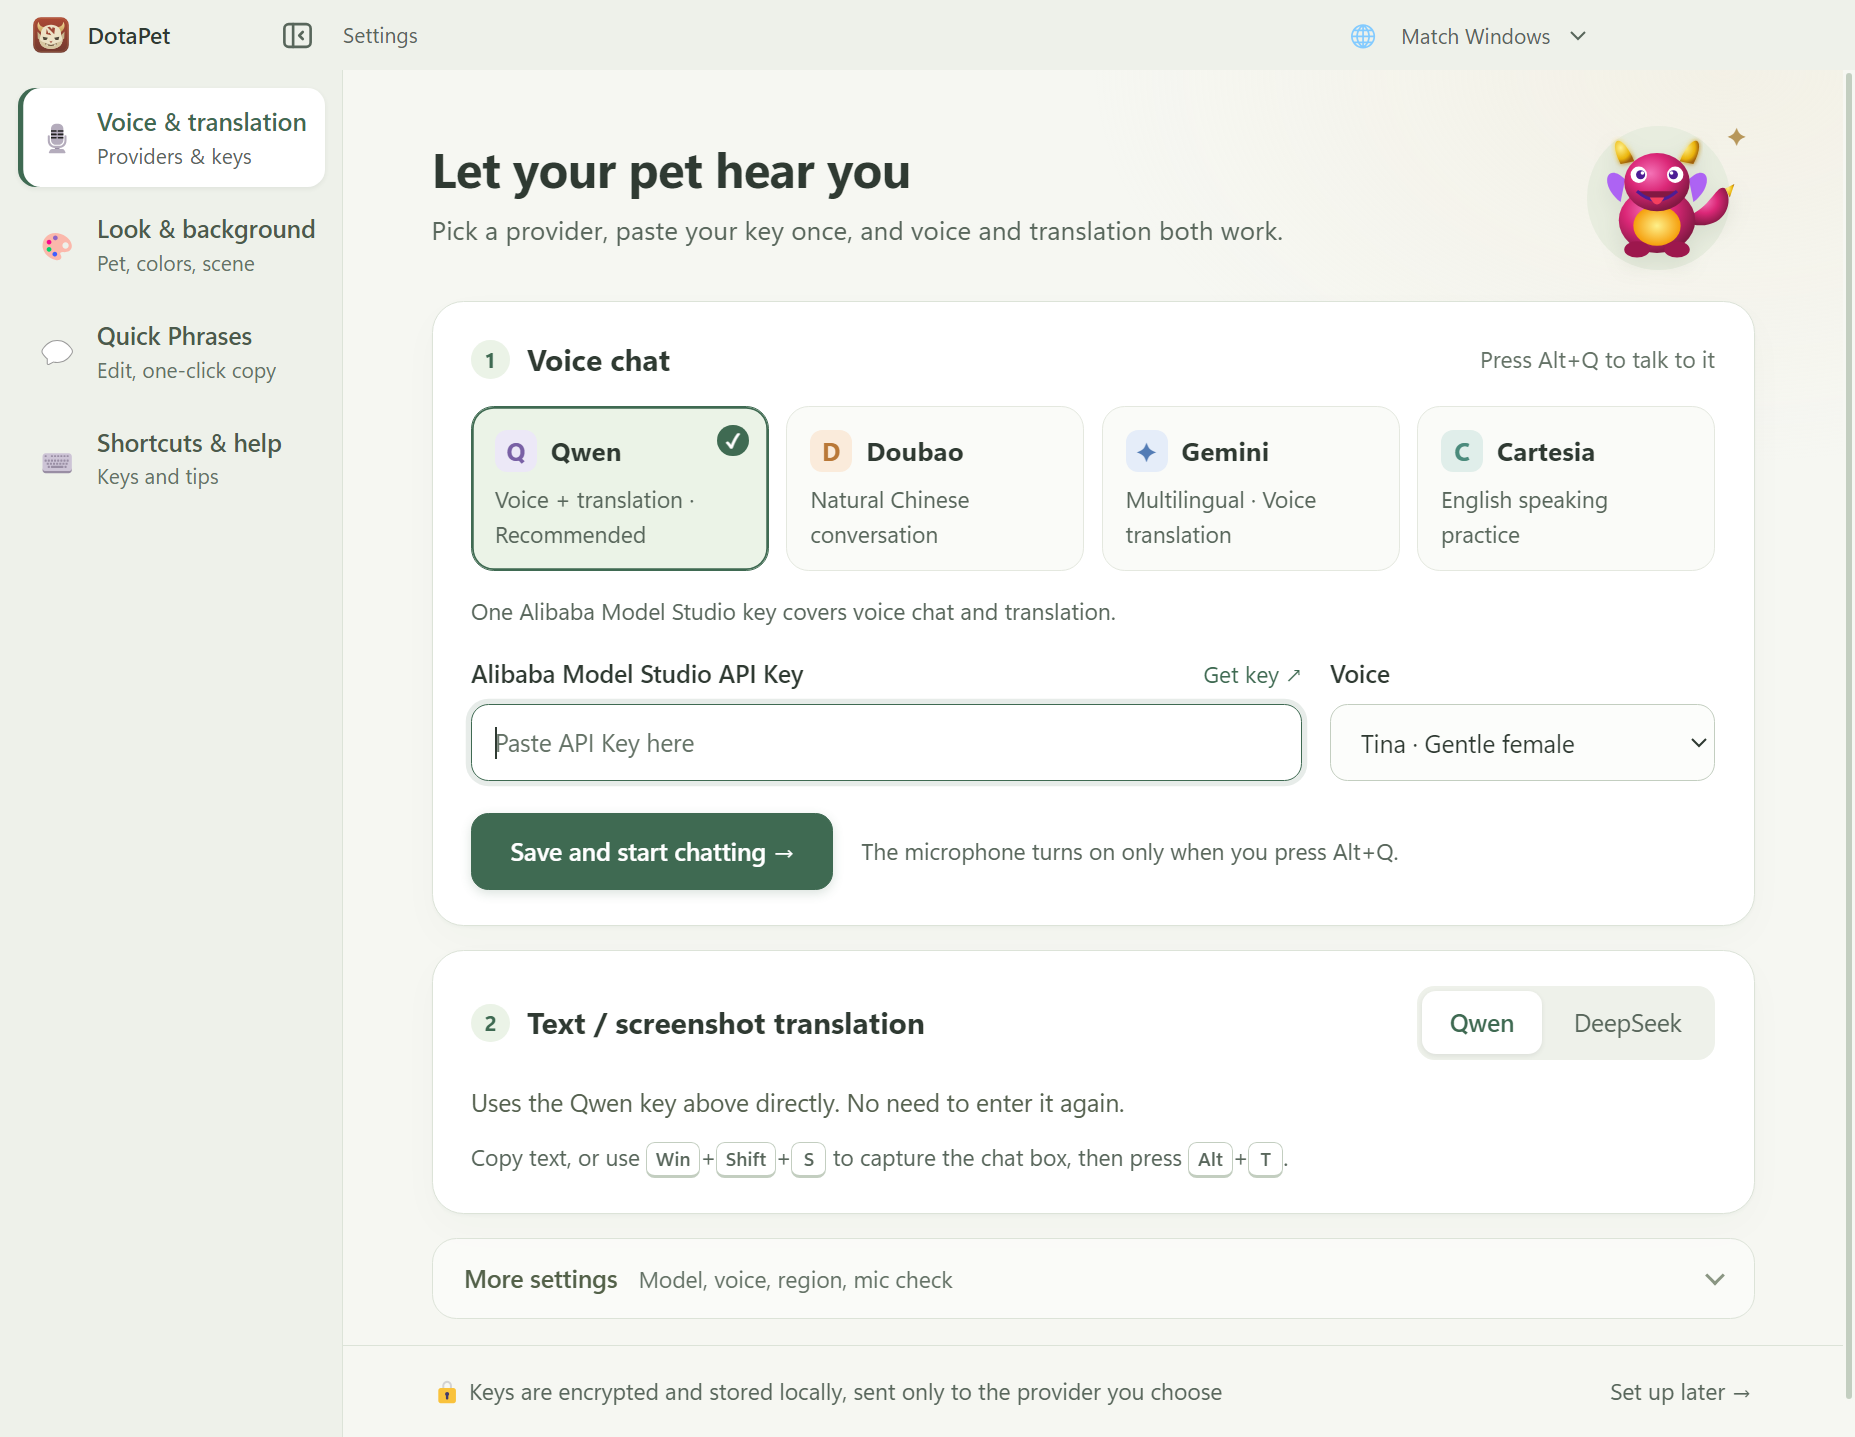
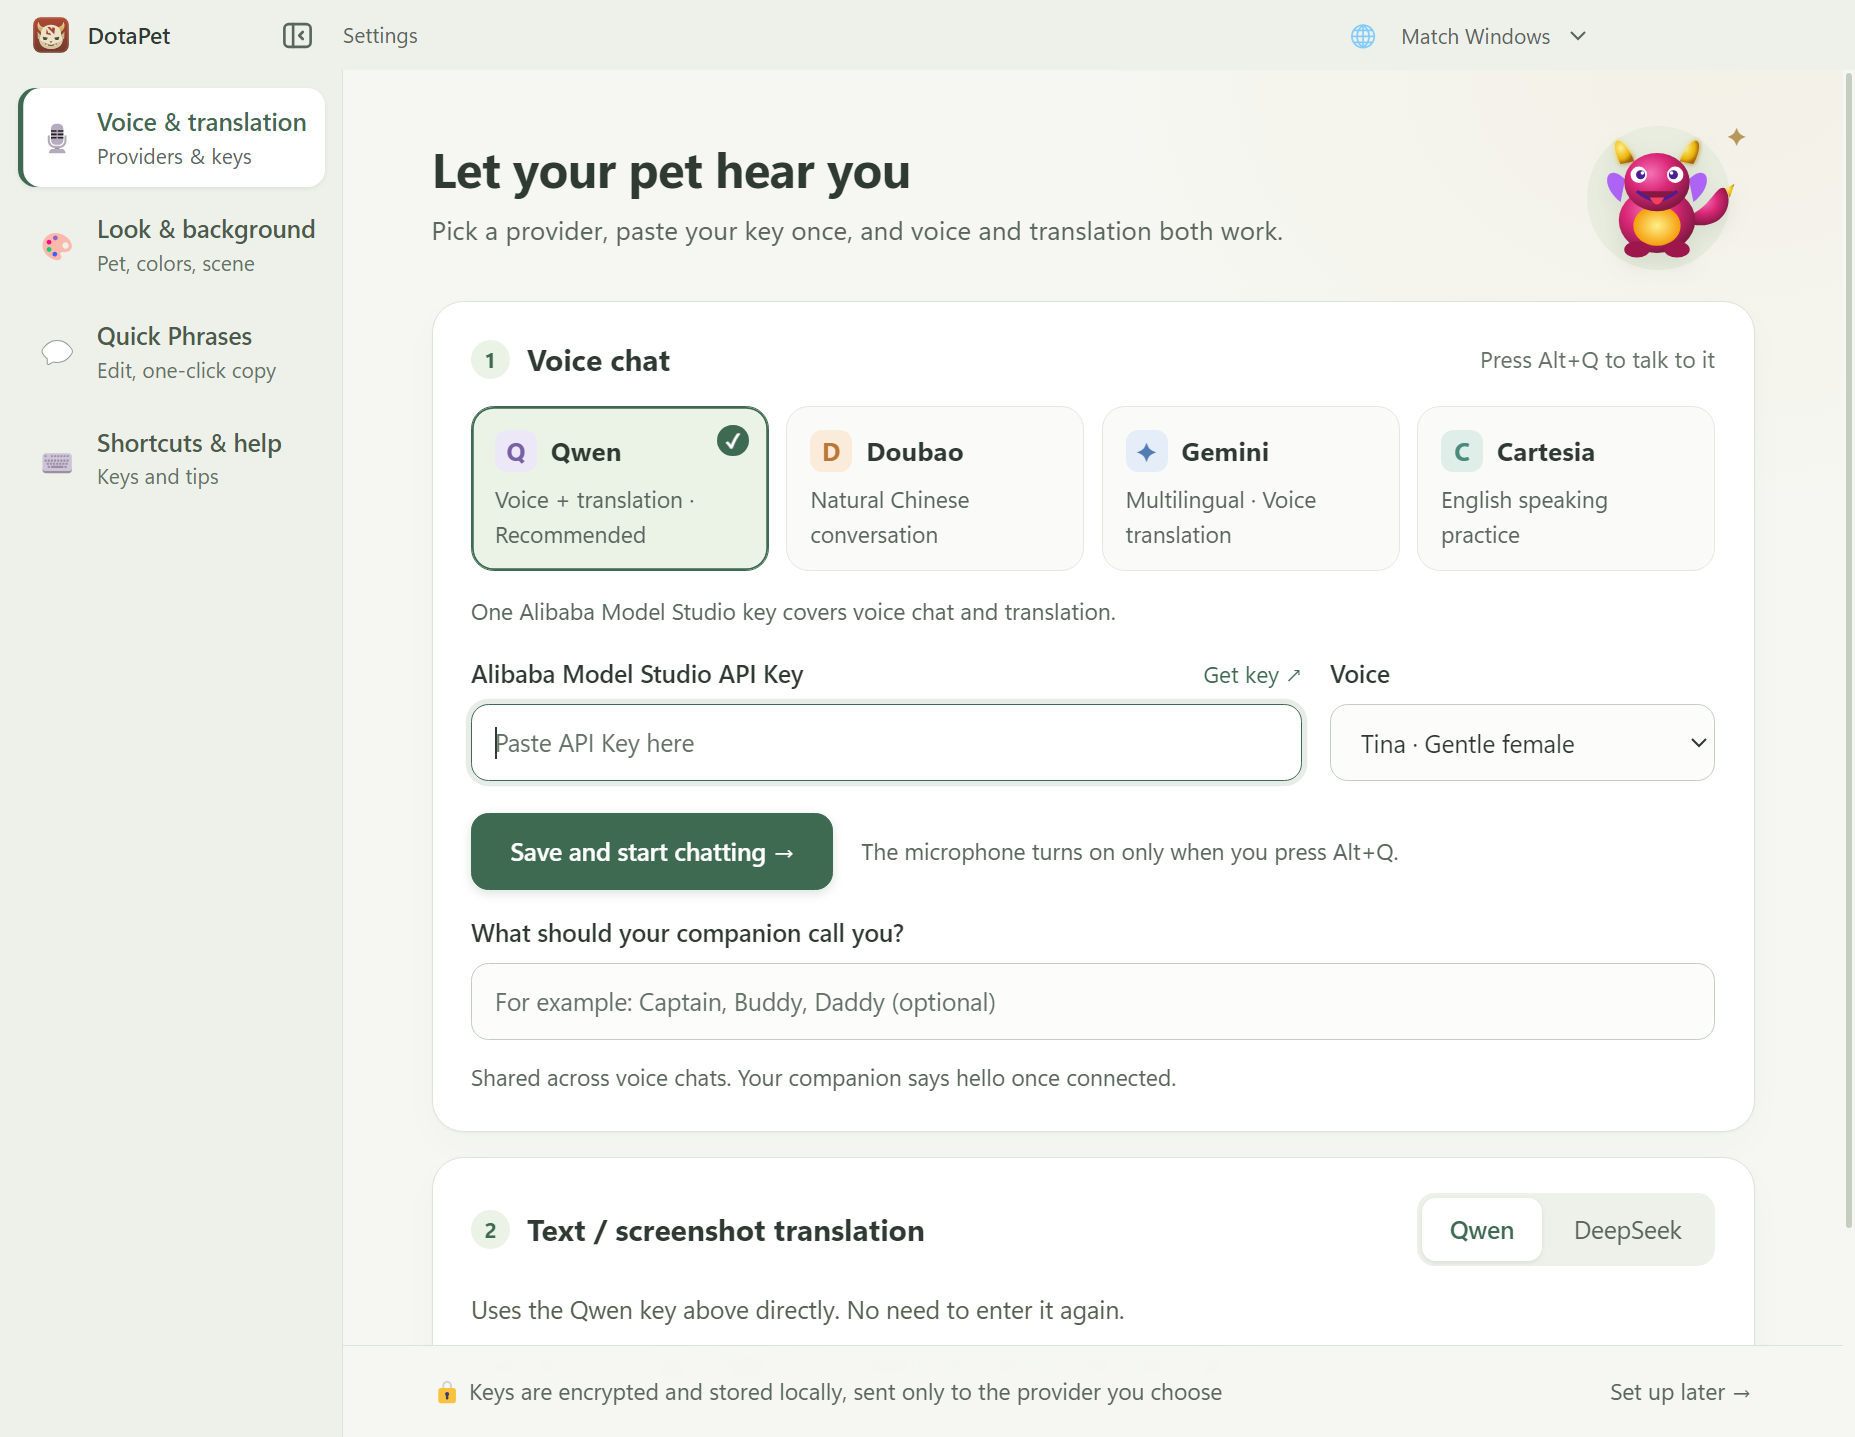
docs: refresh voice settings and chat preference screenshots

diff --git a/src/main/languageSmoke.js b/src/main/languageSmoke.js
@@ -48,6 +48,14 @@ export async function runLanguageSmoke({ controlCenter, openPanel, nativeImage, 
       problems.push(`appearance: the character column overflows (content/room: width ${width}, height ${height})`);
     }
     fs.writeFileSync(path.join(outputDirectory, `language-${page}.png`), (await captureHub(controlCenter, nativeImage)).toPNG());
+    if (documentation && page === 'services') {
+      await contents.executeJavaScript(`(() => {
+        document.getElementById('advanced').open = true;
+        document.querySelector('.conversation-address').scrollIntoView({ block: 'start' });
+      })()`);
+      fs.writeFileSync(path.join(outputDirectory, 'language-chat-preferences.png'), (await captureHub(controlCenter, nativeImage)).toPNG());
+      await contents.executeJavaScript(`document.getElementById('advanced').open = false; window.scrollTo(0, 0);`);
+    }
   }
   await check('sidebar', controlCenter.window.webContents);
   const panel = openPanel();

diff --git a/docs/images/README.md b/docs/images/README.md
@@ -8,11 +8,14 @@ Run this from the repository root on Windows after installing dependencies:
 npm run docs:screenshots
 ```
 
+To refresh only voice settings, chat preferences and translation settings, run `npm run docs:screenshots -- --settings-only`.
+
 The command exercises the existing desktop smoke fixtures, then captures clean Chinese and English settings pages and F6 panels. Each run uses a separate temporary data directory and simulated audio devices. It does not read personal keys, connect to a voice provider, download a real update or install software. All expected images are checked before documentation images are replaced.
 
 | Image | View |
 |---|---|
 | `welcome.png` / `settings-en.png` | Voice and translation settings |
+| `chat-preferences.png` / `chat-preferences-en.png` | Preferred form of address and expanded custom chat instructions |
 | `appearance.png` / `appearance-en.png` | Appearance and background editor |
 | `phrases.png` / `phrases-en.png` | Embedded bilingual phrase editor |
 | `help.png` / `help-en.png` | Shortcuts and help |

diff --git a/README.en.md b/README.en.md
@@ -81,6 +81,13 @@ The About screenshot uses Chinese UI and simulated **0.3.0** update data. It doe
 
 In voice settings, enter **What should your companion call you?** (for example, Captain, Buddy or Daddy). Under **More settings**, add chat preferences for tone, reply style or what to call friends. These preferences apply across voice providers after saving and reconnecting. Each new chat connection you start gets an opening greeting; microphone toggles and connection tests do not repeat it. Live translation is unaffected.
 
+<details>
+<summary><strong>See the name and chat preference settings</strong></summary>
+
+![Current preferred name and chat instruction settings](docs/images/chat-preferences-en.png)
+
+</details>
+
 ### Keep these shortcuts handy
 
 | Action | Shortcut |
